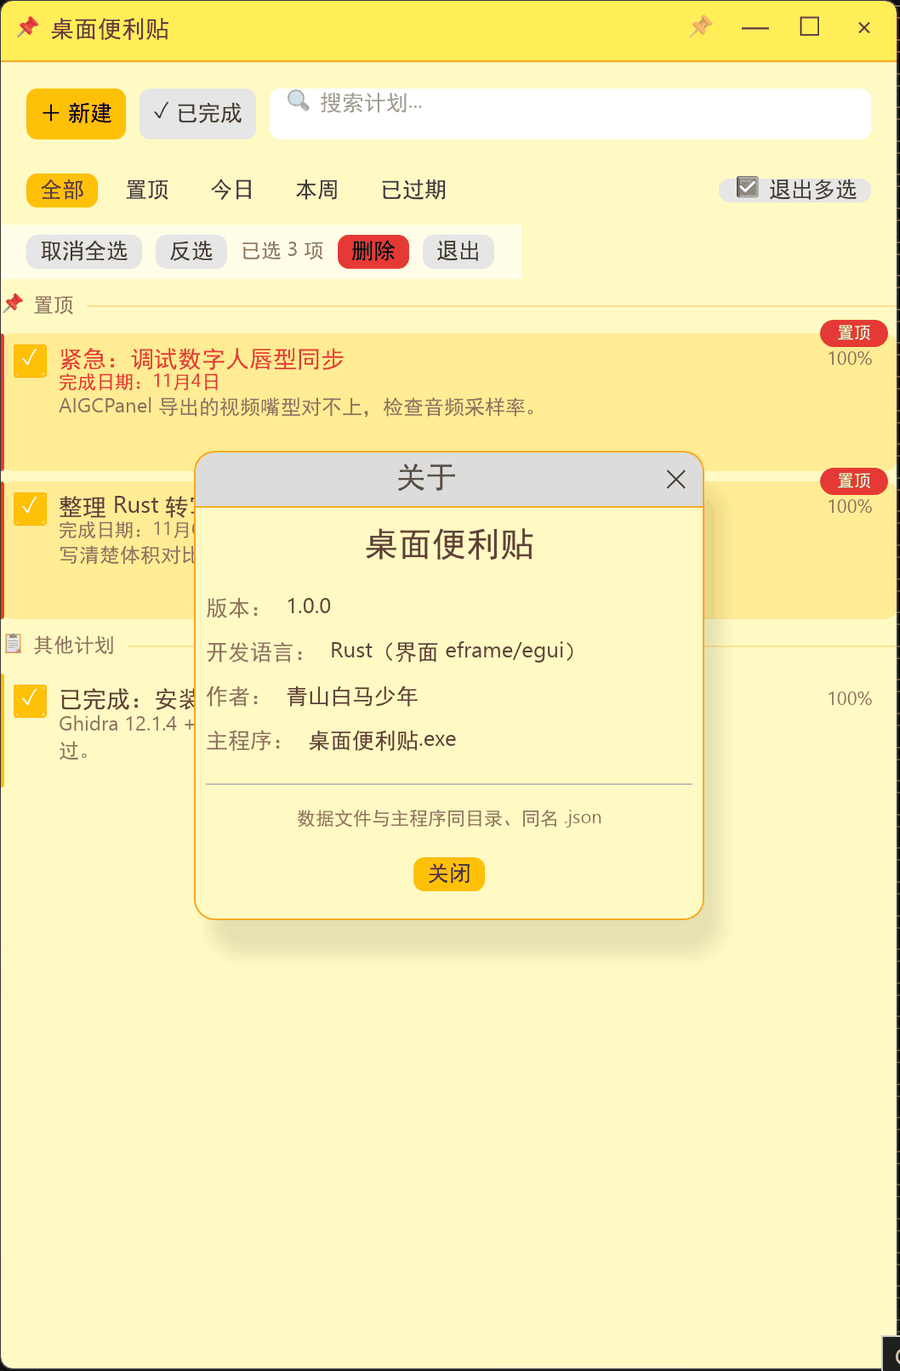
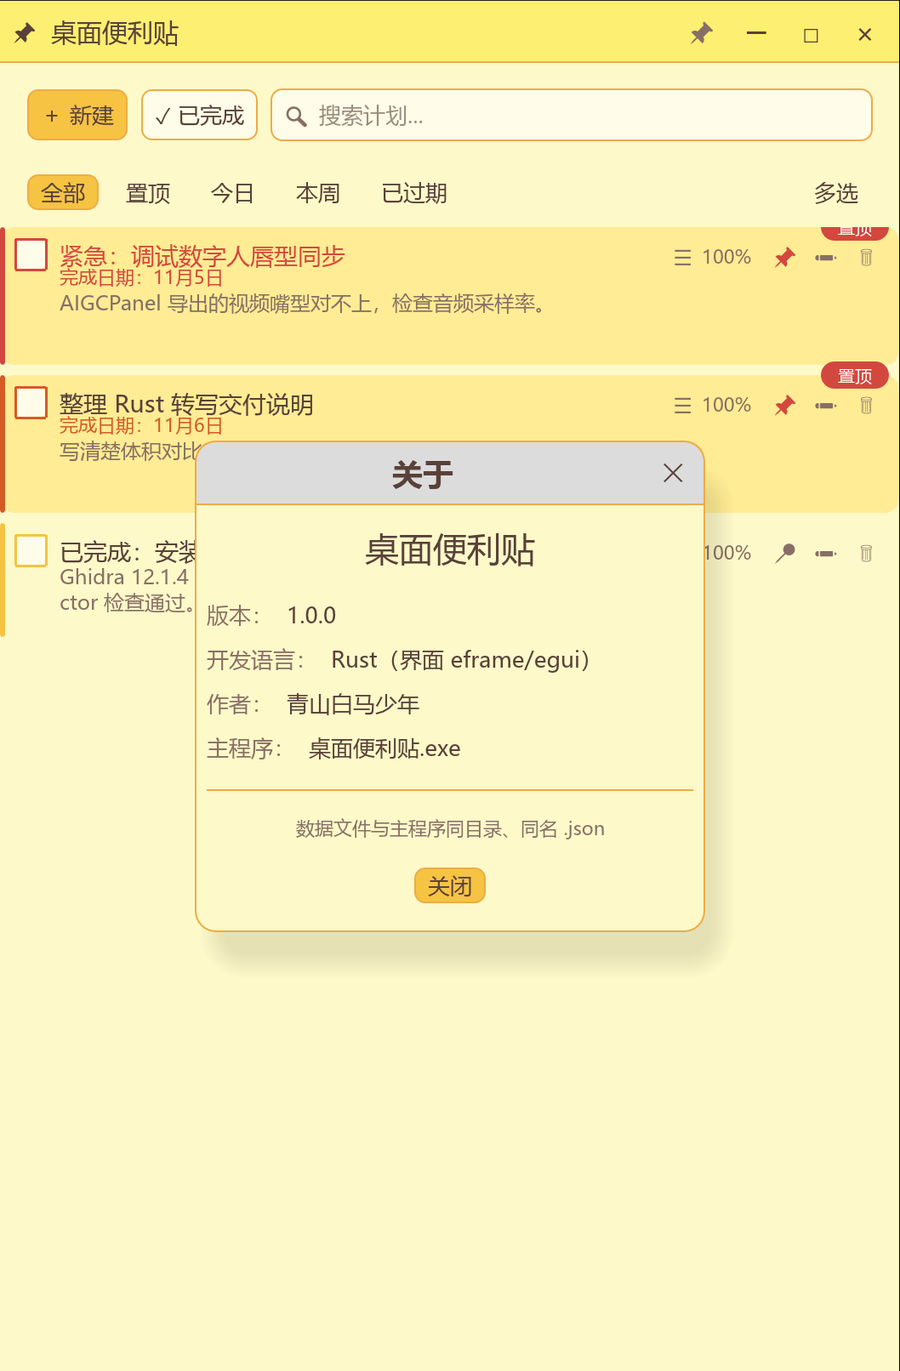
feat: 界面复刻便签黄主题，去灰、统一微软雅黑、布局对齐
- 配色对齐：标题栏 #FCEF71、主色 #F6C343、输入框奶白 #FFFDE9、砖红 #D3483E/橙 #D55B25
- 控件三态与文字全改暖色，egui 默认灰底灰字全部替换（实测灰像素 0.00%）
- 字体链修正：微软雅黑优先，☐✓ 符号与 emoji 由 Windows 字体补位；
  粗体走 msyhbd 独立字体族（对话框标题加粗），主标题用正文同款雅黑
- 搜索框图标与文字垂直居中（实测偏移 +1.0px）
- 多选按钮与同排筛选标签同款控件、文字四周居中，去掉 ☐ 前缀且选中不改文案
- 移除"置顶 / 其他计划"小标题与分隔横条

Changed region(s): [[0.0, 0.0, 1.0, 1.0], [0.9333, 0.4902, 0.9644, 0.5208]]

diff --git a/src/main.rs b/src/main.rs
@@ -47,22 +47,22 @@ const DATA_DIR: &str = "desktop-sticky-notes";
 /// 嵌入的多尺寸 .ico（由 assets/gen_icon.py 生成），用于窗口/任务栏/托盘图标
 const APP_ICON: &[u8] = include_bytes!("../assets/app.ico");
 
-// ---- 配色 ----
-const C_BG: Color32 = Color32::from_rgb(0xFF, 0xF9, 0xC4);
+// ---- 配色（对齐便签黄主题，全暖色、无灰色）----
+const C_BG: Color32 = Color32::from_rgb(0xFE, 0xF9, 0xC9);
 /// 置顶区卡片底色：比普通卡深一档，整块区域一眼分得开
 const C_BG_PIN: Color32 = Color32::from_rgb(0xFF, 0xEC, 0x94);
 const C_BG_DONE: Color32 = Color32::from_rgb(0xFF, 0xF3, 0xB0);
-const C_LIGHT: Color32 = Color32::from_rgb(0xFF, 0xFD, 0xE7);
-const C_ACCENT: Color32 = Color32::from_rgb(0xFF, 0xEE, 0x58);
-const C_BORDER: Color32 = Color32::from_rgb(0xF9, 0xA8, 0x25);
-const C_TEXT: Color32 = Color32::from_rgb(0x5D, 0x40, 0x37);
-const C_TEXT2: Color32 = Color32::from_rgb(0x8D, 0x6E, 0x63);
-const C_RED: Color32 = Color32::from_rgb(0xE5, 0x39, 0x35);
-const C_ORANGE: Color32 = Color32::from_rgb(0xE6, 0x51, 0x00);
+const C_LIGHT: Color32 = Color32::from_rgb(0xFF, 0xFD, 0xE9);
+const C_ACCENT: Color32 = Color32::from_rgb(0xFC, 0xEF, 0x71);
+const C_BORDER: Color32 = Color32::from_rgb(0xED, 0xAC, 0x45);
+const C_TEXT: Color32 = Color32::from_rgb(0x59, 0x41, 0x39);
+const C_TEXT2: Color32 = Color32::from_rgb(0x88, 0x6F, 0x65);
+const C_RED: Color32 = Color32::from_rgb(0xD3, 0x48, 0x3E);
+const C_ORANGE: Color32 = Color32::from_rgb(0xD5, 0x5B, 0x25);
 const C_GREEN: Color32 = Color32::from_rgb(0x4C, 0xAF, 0x50);
-const C_ITEM_BORDER: Color32 = Color32::from_rgb(0xFF, 0xC1, 0x07);
-const C_HL: Color32 = Color32::from_rgb(0xFF, 0xEB, 0x3B);
-const C_PRIMARY: Color32 = Color32::from_rgb(0xFF, 0xC1, 0x07);
+const C_ITEM_BORDER: Color32 = Color32::from_rgb(0xF6, 0xC3, 0x43);
+const C_HL: Color32 = Color32::from_rgb(0xFF, 0xE0, 0x82);
+const C_PRIMARY: Color32 = Color32::from_rgb(0xF6, 0xC3, 0x43);
 
 // ---------------------------------------------------------------- 数据模型
 
@@ -1268,39 +1268,102 @@ impl Planner {
 
 fn setup_fonts(ctx: &Context) {
     let mut fonts = FontDefinitions::default();
-    // 字体 font-family: "微软雅黑", "Microsoft YaHei", sans-serif
-    let candidates: [(&str, &str); 4] = [
-        ("C:/Windows/Fonts/msyh.ttc", "yahei"),
-        ("C:/Windows/Fonts/msyhbd.ttc", "yahei-bold"),
-        ("C:/Windows/Fonts/simhei.ttf", "simhei"),
-        ("C:/Windows/Fonts/seguiemj.ttf", "segoe-emoji"),
-    ];
-    for (path, name) in candidates {
-        if let Ok(bytes) = std::fs::read(path) {
-            fonts.font_data.insert(
-                name.to_string(),
-                std::sync::Arc::new(FontData::from_owned(bytes)),
-            );
-            if let Some(family) = fonts.families.get_mut(&FontFamily::Proportional) {
-                // 微软雅黑排最前，缺失字形回退到 egui 默认字体
-                family.insert(0, name.to_string());
+    let load = |fonts: &mut FontDefinitions, path: &str, name: &str| -> bool {
+        match std::fs::read(path) {
+            Ok(bytes) => {
+                fonts.font_data.insert(
+                    name.to_string(),
+                    std::sync::Arc::new(FontData::from_owned(bytes)),
+                );
+                true
+            }
+            Err(_) => false,
+        }
+    };
+    let has_yahei = load(&mut fonts, "C:/Windows/Fonts/msyh.ttc", "yahei");
+    let has_bold = load(&mut fonts, "C:/Windows/Fonts/msyhbd.ttc", "yahei-bold");
+    // ☐☑✓ 等符号与彩色 emoji 由 Windows 自带字体补位（雅黑没有这些字形）
+    load(&mut fonts, "C:/Windows/Fonts/seguisym.ttf", "segoe-symbol");
+    load(&mut fonts, "C:/Windows/Fonts/seguiemj.ttf", "segoe-emoji");
+
+    // 显示顺序：微软雅黑 → 符号 → emoji → egui 自带字体兜底。
+    // 顺序不能乱：以前靠往前面插，结果黑体/粗体抢在了雅黑前面。
+    let mut chain: Vec<String> = Vec::new();
+    if has_yahei {
+        chain.push("yahei".into());
+    }
+    chain.push("segoe-symbol".into());
+    chain.push("segoe-emoji".into());
+    if let Some(defaults) = fonts.families.get(&FontFamily::Proportional) {
+        for f in defaults.clone() {
+            if !chain.contains(&f) {
+                chain.push(f);
             }
         }
     }
+    fonts.families.insert(FontFamily::Proportional, chain.clone());
+    fonts.families.insert(FontFamily::Monospace, chain);
+
+    // 粗体族：egui 的 .strong() 只加深颜色、不换字体，粗体必须换字体族
+    let mut bold: Vec<String> = Vec::new();
+    if has_bold {
+        bold.push("yahei-bold".into());
+    }
+    if has_yahei {
+        bold.push("yahei".into());
+    }
+    bold.push("segoe-symbol".into());
+    bold.push("segoe-emoji".into());
+    fonts.families.insert(FontFamily::Name("yahei-bold".into()), bold);
     ctx.set_fonts(fonts);
 }
 
 fn setup_style(ctx: &Context) {
     let mut style = (*ctx.style_of(Theme::Light)).clone();
+
+    // 对话框标题栏（Window 标题走 TextStyle::Heading）→ 微软雅黑粗体
+    style.text_styles.insert(
+        TextStyle::Heading,
+        FontId::new(18.0, FontFamily::Name("yahei-bold".into())),
+    );
+
+    // 所有文字强制暖棕色（覆盖 egui 默认的灰字）
+    style.visuals.override_text_color = Some(C_TEXT);
+    style.visuals.hyperlink_color = C_ORANGE;
+    style.visuals.warn_fg_color = C_ORANGE;
+    style.visuals.error_fg_color = C_RED;
+    style.visuals.faint_bg_color = C_BG;
+    style.visuals.extreme_bg_color = C_LIGHT;
+    style.visuals.text_edit_bg_color = Some(C_LIGHT);
+    style.visuals.code_bg_color = C_LIGHT;
+
     style.visuals.selection.bg_fill = C_PRIMARY;
     style.visuals.selection.stroke = Stroke::new(1.0, C_TEXT);
     style.visuals.window_corner_radius = CornerRadius::same(12);
+    style.visuals.menu_corner_radius = CornerRadius::same(8);
     style.visuals.window_fill = C_BG;
     style.visuals.panel_fill = C_BG;
     style.visuals.window_stroke = Stroke::new(1.0, C_BORDER);
-    style.visuals.widgets.inactive.bg_fill = C_LIGHT;
-    style.visuals.widgets.hovered.bg_fill = C_ACCENT;
-    style.visuals.widgets.active.bg_fill = C_PRIMARY;
+
+    // 控件三态全部换成暖色，egui 默认的灰底/灰字一律不要
+    let v = &mut style.visuals.widgets;
+    v.inactive.bg_fill = C_LIGHT;
+    v.inactive.weak_bg_fill = C_LIGHT;
+    v.inactive.bg_stroke = Stroke::new(1.0, C_BORDER);
+    v.inactive.fg_stroke = Stroke::new(1.0, C_TEXT);
+    v.hovered.bg_fill = C_ACCENT;
+    v.hovered.weak_bg_fill = C_ACCENT;
+    v.hovered.bg_stroke = Stroke::new(1.0, C_BORDER);
+    v.hovered.fg_stroke = Stroke::new(1.0, C_TEXT);
+    v.active.bg_fill = C_PRIMARY;
+    v.active.weak_bg_fill = C_PRIMARY;
+    v.active.bg_stroke = Stroke::new(1.0, C_BORDER);
+    v.active.fg_stroke = Stroke::new(1.0, C_TEXT);
+    v.noninteractive.bg_fill = C_BG;
+    v.noninteractive.weak_bg_fill = C_BG;
+    v.noninteractive.bg_stroke = Stroke::new(1.0, C_BORDER);
+    v.noninteractive.fg_stroke = Stroke::new(1.0, C_TEXT2);
+
     style.spacing.item_spacing = vec2(8.0, 6.0);
     // 明暗两套主题都用便签黄，避免跟随系统深色模式
     ctx.set_style_of(Theme::Light, style.clone());
@@ -1582,7 +1645,7 @@ impl Planner {
             pos2(rect.left() + 30.0, rect.center().y),
             Align2::LEFT_CENTER,
             APP_NAME,
-            FontId::proportional(14.0),
+            FontId::proportional(15.0),
             C_TEXT,
         );
 
@@ -1599,7 +1662,7 @@ impl Planner {
                 let fill = if kind == "close" {
                     C_RED
                 } else {
-                    Color32::from_black_alpha(25)
+                    C_ACCENT.gamma_multiply(0.85)
                 };
                 p.rect_filled(br, CornerRadius::same(4), fill);
             }
@@ -1611,7 +1674,7 @@ impl Planner {
                 } else if r.hovered() {
                     C_TEXT
                 } else {
-                    Color32::from_black_alpha(110)
+                    C_TEXT2
                 }
             } else {
                 C_TEXT
@@ -1657,9 +1720,30 @@ impl Planner {
                         self.show_completed = !self.show_completed;
                     }
 
-                    let resp = ui.add_sized(
-                        vec2(ui.available_width().max(60.0), 30.0),
-                        TextEdit::singleline(&mut self.search).hint_text("🔍 搜索计划..."),
+                    // 图标单独画、与文字一起垂直居中（emoji 混进 hint 会把行盒撑歪）
+                    let sw = ui.available_width().max(60.0);
+                    let (srect, _) = ui.allocate_exact_size(vec2(sw, 30.0), Sense::hover());
+                    let sp = ui.painter();
+                    sp.rect_filled(srect, CornerRadius::same(6), C_LIGHT);
+                    sp.rect_stroke(srect, CornerRadius::same(6), Stroke::new(1.0, C_BORDER), StrokeKind::Middle);
+                    sp.text(
+                        pos2(srect.left() + 8.0, srect.center().y),
+                        Align2::LEFT_CENTER,
+                        "🔍",
+                        FontId::proportional(14.0),
+                        C_TEXT2,
+                    );
+                    let row_h =
+                        ui.fonts_mut(|f| f.row_height(&TextStyle::Button.resolve(ui.style())));
+                    let trect = Rect::from_min_size(
+                        pos2(srect.left() + 28.0, srect.center().y - row_h * 0.5),
+                        vec2((srect.width() - 36.0).max(30.0), row_h),
+                    );
+                    let resp = ui.put(
+                        trect,
+                        TextEdit::singleline(&mut self.search)
+                            .hint_text("搜索计划...")
+                            .frame(Frame::NONE),
                     );
                     if resp.changed() {
                         self.search_edited = Some(Instant::now());
@@ -1692,12 +1776,9 @@ impl Planner {
                     }
                     // 右端：多选开关
                     ui.with_layout(Layout::right_to_left(Align::Center), |ui| {
-                        let label = if self.select_mode {
-                            "☑ 退出多选"
-                        } else {
-                            "☐ 多选"
-                        };
-                        if ui.small_button(label).clicked() {
+                        // 与同一行的 全部/置顶… 完全同款控件，文字上下左右居中；
+                        // 不加 ☐ 前缀，选中也不改文案，状态由选中样式表达
+                        if ui.selectable_label(self.select_mode, "多选").clicked() {
                             self.select_mode = !self.select_mode;
                             self.selected.clear();
                         }
@@ -1736,17 +1817,7 @@ impl Planner {
         ScrollArea::vertical()
             .auto_shrink([false, false])
             .show(ui, |ui| {
-                let mut pinned_header = false;
-                let mut normal_header = false;
                 for item in &visible {
-                    let in_pinned_section = item.is_pinned && !item.is_completed;
-                    if in_pinned_section && !pinned_header {
-                        section_header(ui, "📌 置顶");
-                        pinned_header = true;
-                    } else if !in_pinned_section && pinned_header && !normal_header {
-                        section_header(ui, "📋 其他计划");
-                        normal_header = true;
-                    }
                     self.item_card(ui, ctx, item);
                 }
             });
@@ -2008,7 +2079,7 @@ impl Planner {
                 if handle_resp.dragged() {
                     C_TEXT
                 } else {
-                    Color32::from_black_alpha(120)
+                    C_TEXT2
                 },
             );
             if handle_resp.drag_started() {
@@ -2275,22 +2346,6 @@ impl Planner {
 }
 
 // ---------------------------------------------------------------- 绘制小工具
-
-fn section_header(ui: &mut Ui, text: &str) {
-    let (rect, _) = ui.allocate_exact_size(vec2(ui.available_width(), 20.0), Sense::hover());
-    let p = ui.painter();
-    let galley = p.layout_no_wrap(text.to_string(), FontId::proportional(12.0), C_TEXT2);
-    let size = galley.size();
-    let y = rect.center().y;
-    p.galley(pos2(rect.left(), y - size.y * 0.5), galley, C_TEXT2);
-    p.line_segment(
-        [
-            pos2(rect.left() + size.x + 8.0, y),
-            pos2(rect.right(), y),
-        ],
-        Stroke::new(1.0, Color32::from_rgba_unmultiplied(0xF9, 0xA8, 0x25, 80)),
-    );
-}
 
 fn draw_rect_border(p: &Painter, rect: Rect, _radius: CornerRadius, color: Color32) {
     let stroke = Stroke::new(1.5, color);
